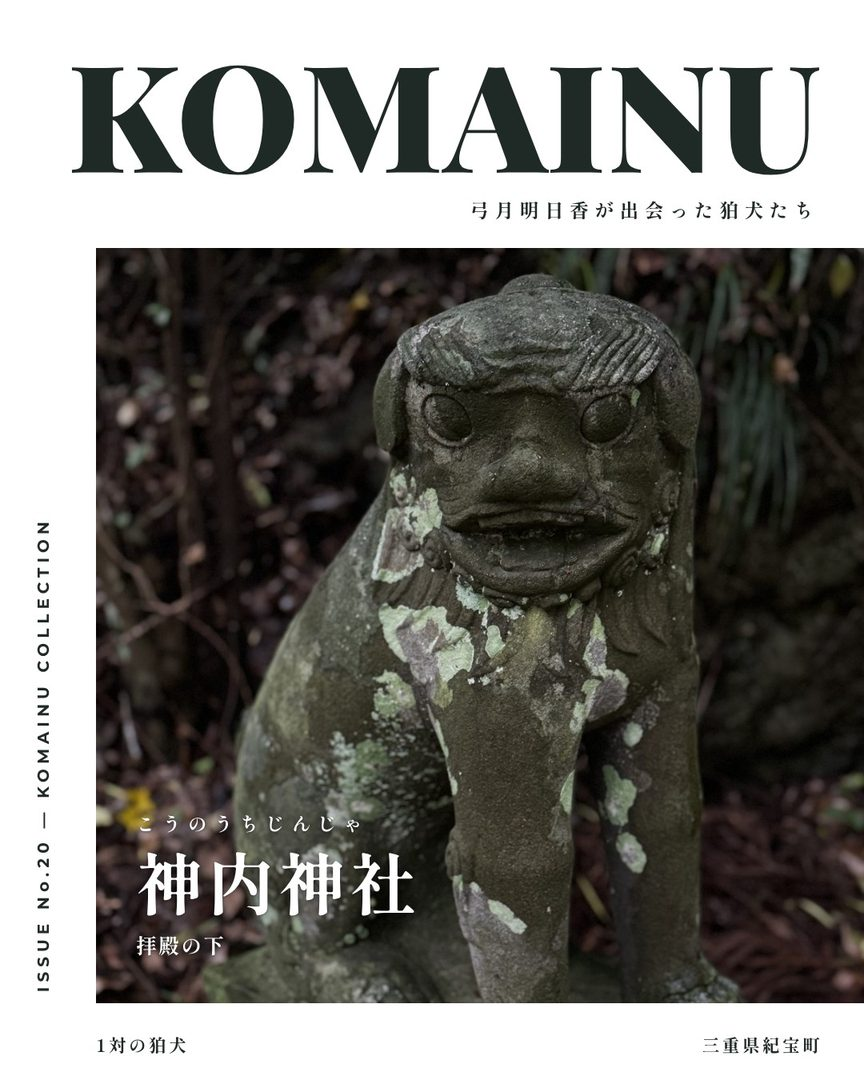
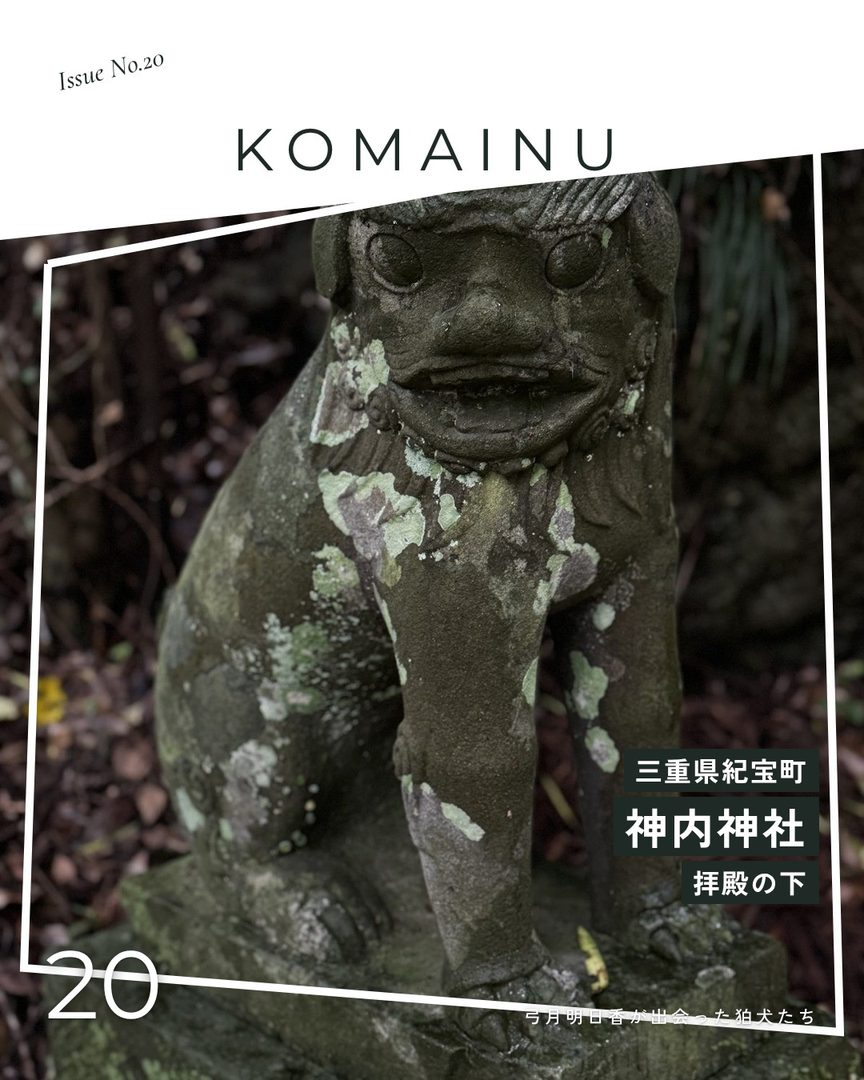
図鑑：表紙を第4版に(文字は白か黒、ミントは使わない。参考のテンプレートを足して11種類)（komainu-v43）
Claude-Session: https://claude.ai/code/session_01TBFoRxibf2evV9HUJqSJfP

diff --git a/zukan/style.css b/zukan/style.css
@@ -420,7 +420,7 @@ dd .bt { margin: 0 0 0 6px; vertical-align: 1px; }
 .where-plan { aspect-ratio: 1 / 1; }
 
 /* ---------- 神社の頁の表紙(雑誌の表紙ふう) ----------
-   画像は build/cover2/make3.py で作る(Instagram の1枚目と同じ)。images/covers/<最初の対のid>.jpg */
+   画像は build/cover2/make4.py で作る(Instagram の1枚目と同じ)。images/covers/<最初の対のid>.jpg */
 .cover { position: relative; margin: 0 0 22px; aspect-ratio: 4 / 5; border-radius: var(--r-s); overflow: hidden; background: #1d2522;
   box-shadow: 0 10px 30px rgba(0,0,0,.22); }
 .cover-img { position: absolute; inset: 0; width: 100%; height: 100%; object-fit: cover; display: block; }

diff --git a/zukan/app.js b/zukan/app.js
@@ -519,9 +519,9 @@
     v.innerHTML = html + '</div>';
   }
 
-  // 雑誌の表紙のような1枚。build/cover2/make3.py が作った画像(Instagram の1枚目と同じもの)をそのまま出す。
+  // 雑誌の表紙のような1枚。build/cover2/make4.py が作った画像(Instagram の1枚目と同じもの)をそのまま出す。
   // 狛犬を切り抜いて誌名の上に頭が重なる作りのため、画像で持つ。6種類を神社の並び順で回す
-  var COVER_V = '20261106c';
+  var COVER_V = '20261106d';
   function coverHTML(s) {
     var ks = s.komainu || [], gw = groupWord(ks);
     if (!ks[0]) return '';

diff --git a/zukan/sw.js b/zukan/sw.js
@@ -1,7 +1,7 @@
 /* 狛犬図鑑 service worker
    アプリ本体は先に保存。data/ は新しいものを優先（通信できないときは保存分）。
    写真と地図タイルは見たものから保存する。データを差し替えたら CACHE の番号を上げる。 */
-var CACHE = 'komainu-v42';
+var CACHE = 'komainu-v43';
 var CORE = [
   './', 'index.html', 'style.css', 'app.js', 'maplibre-gl.css', 'manifest.webmanifest',
   'data/site.json', 'data/taxonomy.json', 'data/shrines.json',
